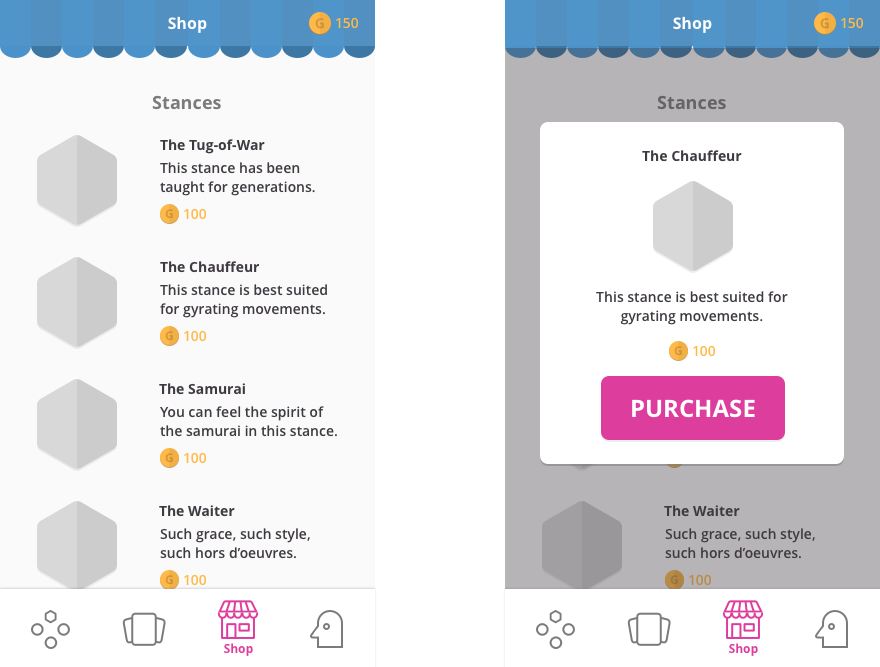
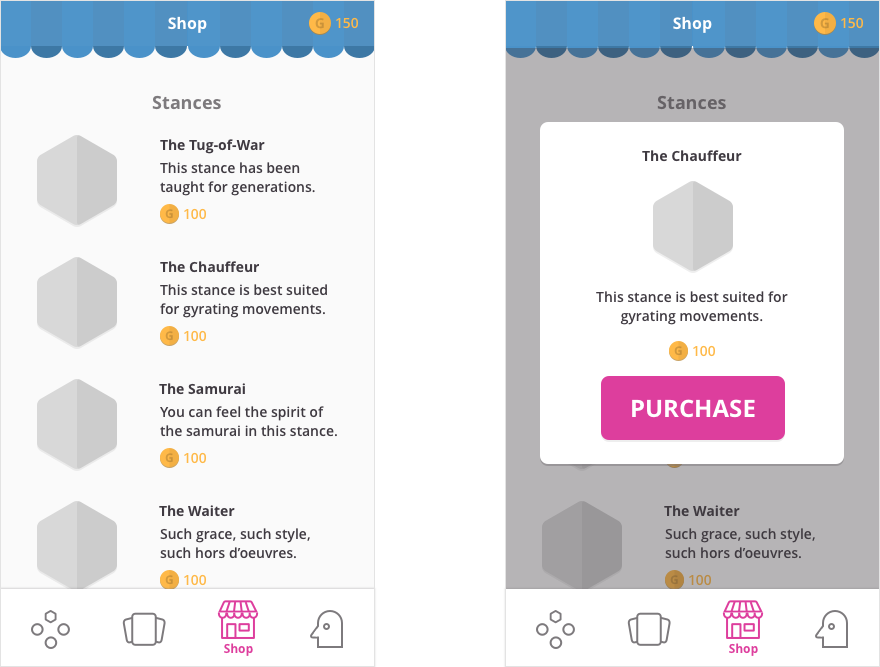
resized; added borders

Changed region(s): [[0.583, 0.9895, 1.0, 1.0], [0.0, 0.9895, 0.4295, 1.0], [0.9818, 0.0, 1.0, 0.03]]

diff --git a/_posts/2017-04-16-duodisco.html b/_posts/2017-04-16-duodisco.html
@@ -50,21 +50,21 @@ tools: Sketch, AfterEffects, Flinto
     <p>The curriculum is presented to the user in stages. Each stage has the user learn a few moves across one or more stances. Moves are both presented as animations as well as step-by-step instructions.</p>
 
     <div class="figure mobile">
-        <img src="/assets/images/duodisco/learn.gif"\>
+        <img class="border" src="/assets/images/duodisco/learn.gif"\>
         <p class="caption">Progress through new moves on the Learn tab.</p>
     </div>
 
     <p>Once the user has learned all moves and stances for a stage, they must complete a required <em>Skill Check</em> that has the user perform an assortment of moves from that stage. Once completed, a new stage of the curriculum is unlocked.</p>
 
     <div class="figure mobile">
-        <img src="/assets/images/duodisco/skill-check.gif"\>
+        <img class="border" src="/assets/images/duodisco/skill-check.gif"\>
         <p class="caption">Complete a Skill Check<sup><a id="ref1" href="#fn1" title="Jump to footnote.">1</a></sup> to progress to the next stage.</p>
     </div>
 
     <p>Users can brush up on the dance moves they've learned at any time on moves tab. Users can flip through their deck of known stances to check out the associated moves.</p>
 
     <div class="figure mobile">
-        <img src="/assets/images/duodisco/moves.gif"\>
+        <img class="border" src="/assets/images/duodisco/moves.gif"\>
         <p class="caption">The Moves tab is a quick way to see all known moves.</p>
     </div>
 
